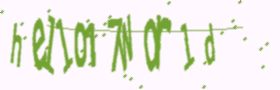
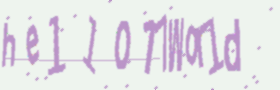
Add files via upload

diff --git a/flaskPR08/templates/register.html b/flaskPR08/templates/register.html
@@ -9,7 +9,7 @@
         body {
             margin: 0;
             font-family: 'Segoe UI', Tahoma, Geneva, Verdana, sans-serif;
-            background: linear-gradient(135deg, #74ebd5 0%, #9face6 100%);
+            background: linear-gradient(135deg, #ebcf74 0%, #9face6 100%);
             display: flex;
             align-items: center;
             justify-content: center;
@@ -53,14 +53,14 @@
         }
 
         input:focus {
-            border-color: #2196F3;
+            border-color: #f35d21;
             outline: none;
         }
 
         button {
             width: 100%;
             padding: 12px;
-            background-color: #2196F3;
+            background-color: #f36e21;
             color: white;
             border: none;
             border-radius: 6px;
@@ -70,7 +70,7 @@
         }
 
         button:hover {
-            background-color: #1976D2;
+            background-color: #f0bb29;
             transform: scale(1.03);
         }
 
@@ -83,7 +83,7 @@
         .success-message {
             margin-bottom: 15px;
             font-size: 0.95rem;
-            color: #388e3c;
+            color: #eec43a;
         }
 
         a#login {

diff --git a/flaskPR08/chern.py b/flaskPR08/chern.py
@@ -1,0 +1,145 @@
+
+
+from datetime import datetime
+import os
+from flask import Flask, render_template, session, url_for, request, redirect
+from flask_sqlalchemy import SQLAlchemy
+import hashlib
+from captcha.image import ImageCaptcha
+import re
+
+
+app = Flask(__name__)
+app.config['SQLALCHEMY_DATABASE_URI'] = 'sqlite:///first.db'
+db = SQLAlchemy(app)
+
+WHITE_URLS = {"/", "/login", "/register", "/logout", "/static"}
+DEV_MODE = os.getenv("DEV_MODE", "1") == "1" 
+
+image = ImageCaptcha(width=280, height=90)
+data = image.generate('hello17world')
+image.write('hello17world','demo.png')
+
+class Users(db.Model):
+    id = db.Column(db.Integer,autoincrement=True, primary_key = True)
+    username = db.Column(db.String(30), unique=True, nullable = False )
+    password = db.Column(db.String(200), nullable = False)
+    
+    def __repr__(self):
+        return f"id:{self.id}. user:{self.username}, password: {self.password}"
+    
+# with app.app_context():
+#     db.create_all()
+
+class Roles(db.Model):
+    role_id = db.Column(db.Integer,autoincrement=True, primary_key = True)
+    role_name = db.Column(db.String(200), nullable = False)
+
+class Humans(db.Model):
+    id = db.Column(db.Integer,autoincrement=True, primary_key = True)
+    name = db.Column(db.String(20), nullable = True)
+    surname = db.Column(db.String(40), nullable = True)
+    login = db.Column(db.String(20), nullable = True)
+    email = db.Column(db.String(40),  nullable = True)
+    Role = db.Column(db.Integer, db.ForeignKey('roles.role_id'), nullable = True)
+    password = db.Column(db.String(100),  nullable = True)
+    birthdate = db.Column(db.Date,  nullable = True)
+
+    def __repr__(self):
+        return super().__repr__()
+    
+with app.app_context():
+    db.create_all()
+
+@app.middleware('http')
+async def session_middleware(request: Request, call_next):
+    path = request.url.path
+    if path.startswith('/static') or path in WHITE_URLS:
+        return await call_next(request)
+    
+    session_id = request.cookies.get('session_id')
+    if not session_id:
+        # return RedirectResponse(url='/login')
+
+
+    session["created"] = datetime.now()
+    return await call_next(request)
+
+@app.route("/")
+@app.route("/home")
+def home():
+
+    username = session.get('username')
+    return render_template('home.html', username=username)
+
+@app.route("/register", methods=['POST', 'GET'])
+def register():
+    if request.method == 'POST':
+        username = request.form.get('username')
+        password = request.form.get('password')
+        
+        copy_password = password.encode()
+        salt = username.encode()
+        hashed_password = str(hashlib.pbkdf2_hmac('sha256', copy_password, salt, 100))
+        
+        user = Users(username=username, password=hashed_password)
+        try:
+            db.session.add(user)
+            db.session.commit()
+            
+            session.permanent = True
+            session['username'] = username
+            
+            return redirect(url_for('home'))
+        except Exception as e:
+            print(e)
+            return redirect(url_for('register'))
+    
+    return render_template('register.html', a='demo.png')
+
+@app.route("/login", methods=['POST', 'GET'])
+def login():
+    if request.method == 'POST':
+        username = request.form.get('username')
+        password = request.form.get('password')
+        
+        user = Users.query.filter_by(username=username).first()
+        
+        if user:
+            copy_password = password.encode()
+            salt = username.encode()
+            input_hash = str(hashlib.pbkdf2_hmac('sha256', copy_password, salt, 100))
+            
+            if user.password == input_hash:
+                
+                session.permanent = True
+                session['username'] = user.username
+                return redirect(url_for('home'))
+        
+        print("Wrong login or password")
+        return render_template('login.html', error="Ошибка входа")
+        
+    return render_template('login.html')
+
+@app.route("/private_kabinet", methods=['POST', 'GET'])
+def kabinet():
+    if 'username' not in session:
+        return redirect(url_for('login'))
+
+    if request.method == 'POST':
+
+        return redirect('/')
+    
+  
+    return render_template('private_kabinet.html', username=session['username'])
+
+@app.route("/logout")
+def logout():
+    session.clear() 
+    return redirect(url_for('home'))
+
+# if __name__ == "__main__":
+#     app.run(debug=True, ssl_context = ('cert.pem', 'key.pem'))
+
+if __name__ == "__main__":
+    app.run(debug=True)

diff --git a/flaskPR08/app.py b/flaskPR08/app.py
@@ -87,6 +87,7 @@ def register():
             db.session.add(user)
             db.session.commit()
                 
+                
             return redirect('/')
         except Exception as e: 
             print(e)
@@ -119,6 +120,5 @@ def login():
 
 if __name__ == "__main__":
     app.run(debug=True, ssl_context = ('cert.pem', 'key.pem'))
-
 
 
